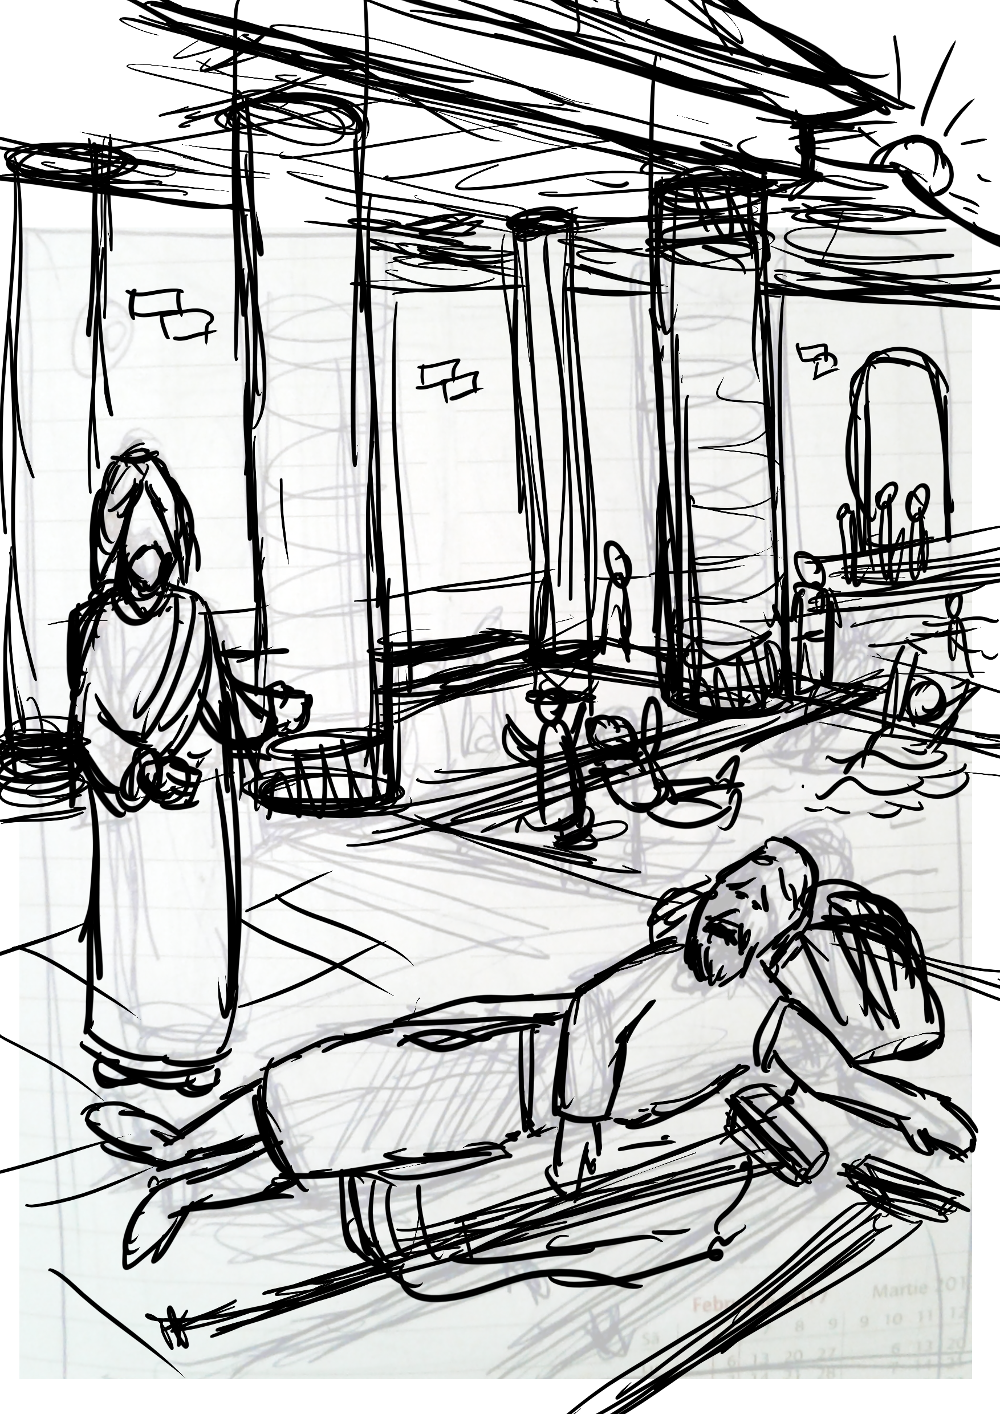
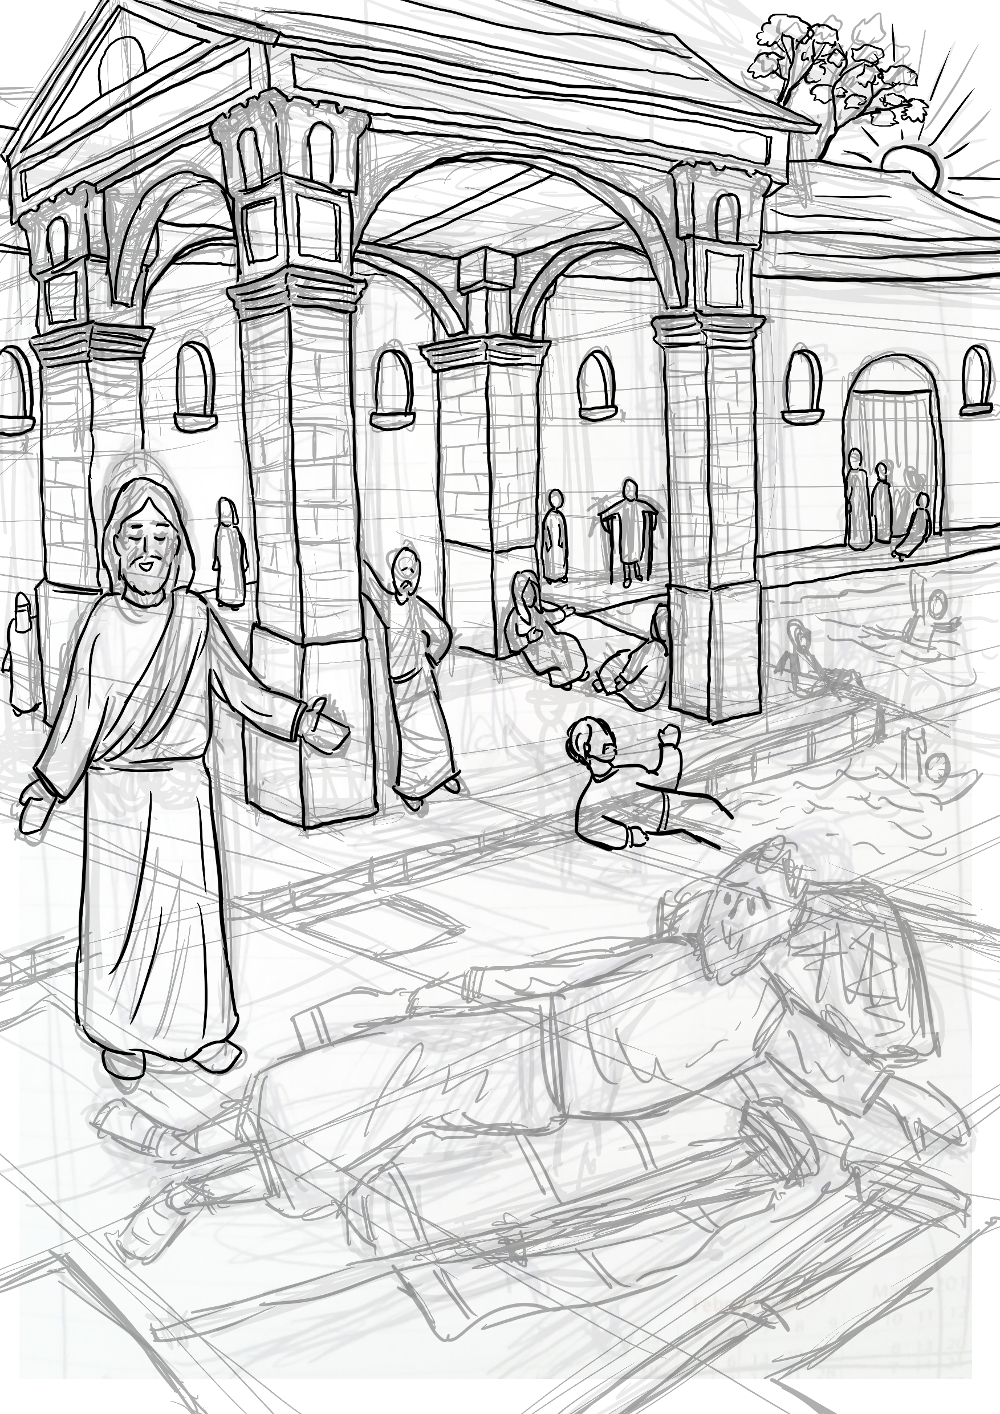
Update 10.

diff --git a/script.js b/script.js
@@ -3,7 +3,7 @@ angular.module('galleryApp', [])
     var gallery = this;
     gallery.language = "ro";
     gallery.work_start_date = new Date(2017,02,12);
-    gallery.worked_hours = 74.5;  // EDIT HERE
+    gallery.worked_hours = 75.5;  // EDIT HERE
 
     gallery.get_global_progress = function() {
       var index;
@@ -254,7 +254,7 @@ angular.module('galleryApp', [])
       {
         id: 10,
         img: '10.png',
-        done: 50,
+        done: 75,
         title: {
           ro: "Vindecarea slăbănogului la Betesda",
           en: "Healing the paralytic at Bethesda"
